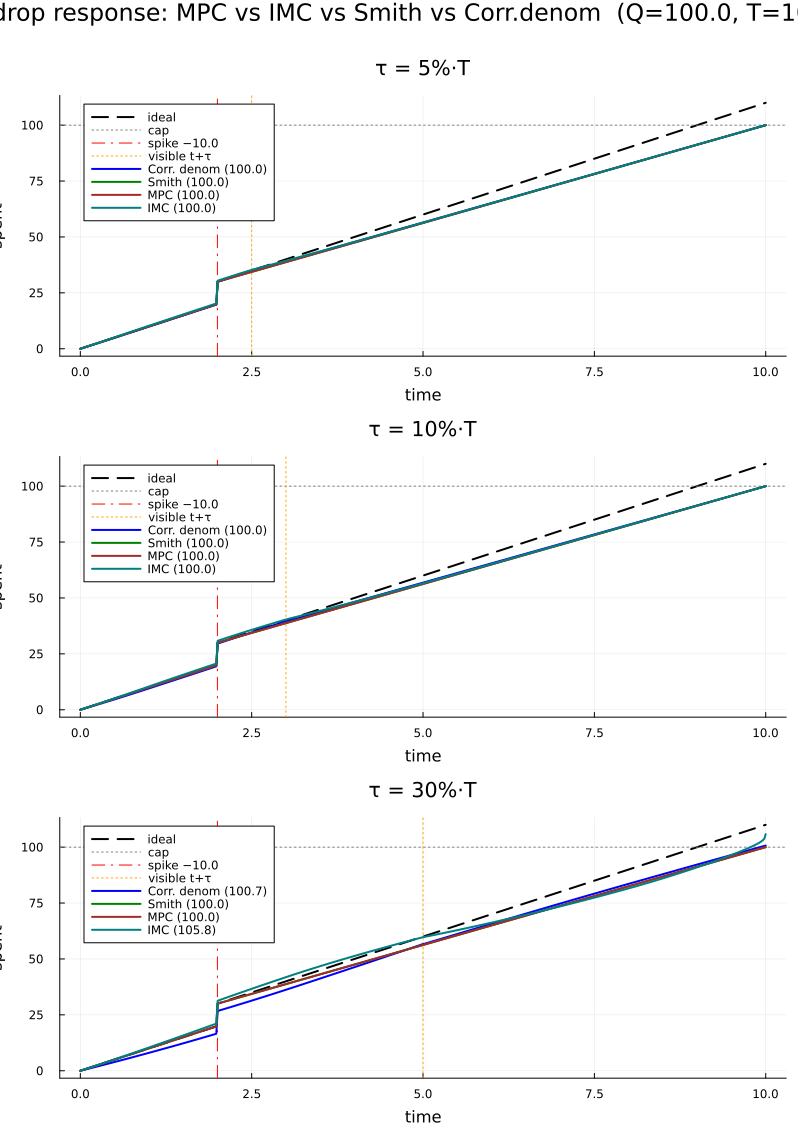
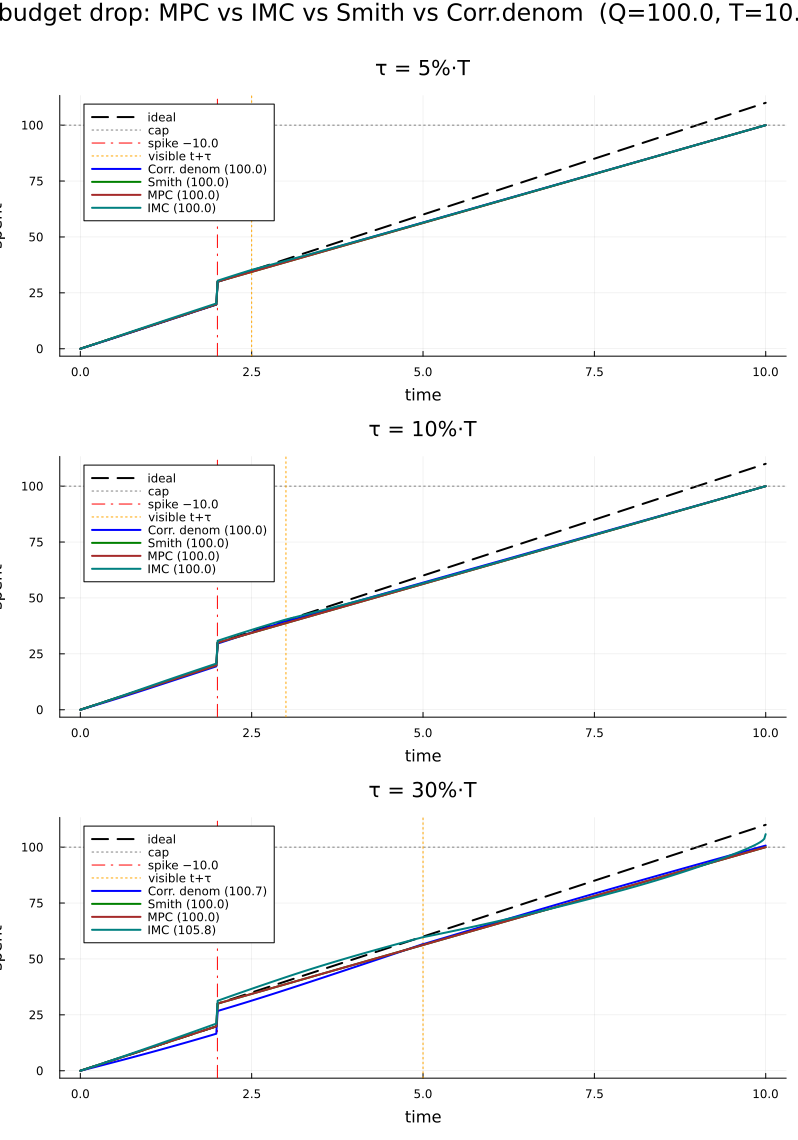
Add two-spike variants for MPC and IMC
solve_budget_mpc_two_spikes / solve_budget_imc_two_spikes implement the
three-segment restart pattern. demo_mpc_two_spikes plots all four controllers
(MPC, IMC, Smith, corrected-denom) under two drops at t=0.2T and t=0.5T.

Results: MPC stays at 100% at all delays (safety constraint absorbs each
spike independently). IMC overshoot compounds: 10.3% at tau=30%T vs 5.8%
for a single spike. Corrected-denom also compounds: 105.6% vs 100.7%.

Changed region(s): [[0.0, 0.0, 1.0, 0.0307]]

diff --git a/RESULTS_BUDGET.md b/RESULTS_BUDGET.md
@@ -440,14 +440,48 @@ sudden spikes.  IMC's filter, designed to smooth noisy α̂, is a liability for 
 structural changes — it is slow to react.  For systems where both α mismatch and
 demand spikes occur, **MPC is the recommended controller**.
 
+#### Two successive budget drops
+
+The single-spike result extends to two successive drops.  `demo_mpc_two_spikes`
+injects spikes at t_spike1 = 0.2·T and t_spike2 = 0.5·T, each of size Δ = 10.
+
+![Two budget drops: MPC vs IMC vs Smith vs Corr.denom](plots/mpc_two_spikes.png)
+
+| τ | Corr. denom | Smith | MPC | IMC (λ=0.1) |
+|---|-------------|-------|-----|-------------|
+| 5%·T  | 100.0 | 100.0 | 100.0 | 100.6 |
+| 10%·T | 100.0 | 100.0 | 100.0 | 100.1 |
+| 30%·T | 105.6 | 100.0 | **100.0** | 110.3 |
+
+**MPC — still perfect.** The safety constraint absorbs each spike independently.
+Each spike lowers B(t-τ) after the blind window, which immediately lowers
+`rate_safe`, preventing cumulative overspend.  Two spikes are no harder than one.
+
+**IMC — overshoot compounds.** Each spike adds a transient filter lag.  At
+τ = 30%·T the two overshoot episodes partially overlap (second spike arrives
+before `corr_f` has converged from the first), pushing the total overshoot to
+10.3% — roughly double the single-spike 5.8%.  At τ = 5%·T the blind windows
+are short (0.5 time units each) and the filter converges quickly, so the
+overshoot is only 0.6%.
+
+**Corrected denom — compounds at large τ.** The two blind-window over-spend
+episodes add: 105.6% vs 100.7% for a single spike — consistent with the
+earlier two-spike results.  MPC has no such problem.
+
 ```julia
-# Single spike: compare MPC, IMC, Smith, corrected-denom
+# Single spike
 demo_mpc_spike()
 demo_mpc_spike(delay_fracs = [0.05, 0.10, 0.30], spike_Δ = 20.0)
 
+# Two successive spikes
+demo_mpc_two_spikes()
+demo_mpc_two_spikes(t_spike1_frac = 0.2, t_spike2_frac = 0.35)   # overlapping blind windows
+
 # Solve directly
-s1, s2, _ = solve_budget_mpc_spike(Q=100.0, T=10.0, τ=3.0, t_spike=2.0, spike_Δ=10.0)
-s1, s2, _ = solve_budget_imc_spike(Q=100.0, T=10.0, τ=3.0, t_spike=2.0, spike_Δ=10.0)
+s1, s2, _       = solve_budget_mpc_spike(τ=3.0, t_spike=2.0, spike_Δ=10.0)
+s1, s2, s3, _, _ = solve_budget_mpc_two_spikes(τ=3.0, spike_Δ1=10.0, spike_Δ2=10.0)
+s1, s2, _       = solve_budget_imc_spike(τ=3.0, t_spike=2.0, spike_Δ=10.0)
+s1, s2, s3, _, _ = solve_budget_imc_two_spikes(τ=3.0, spike_Δ1=10.0, spike_Δ2=10.0)
 ```
 
 ### What the plot shows